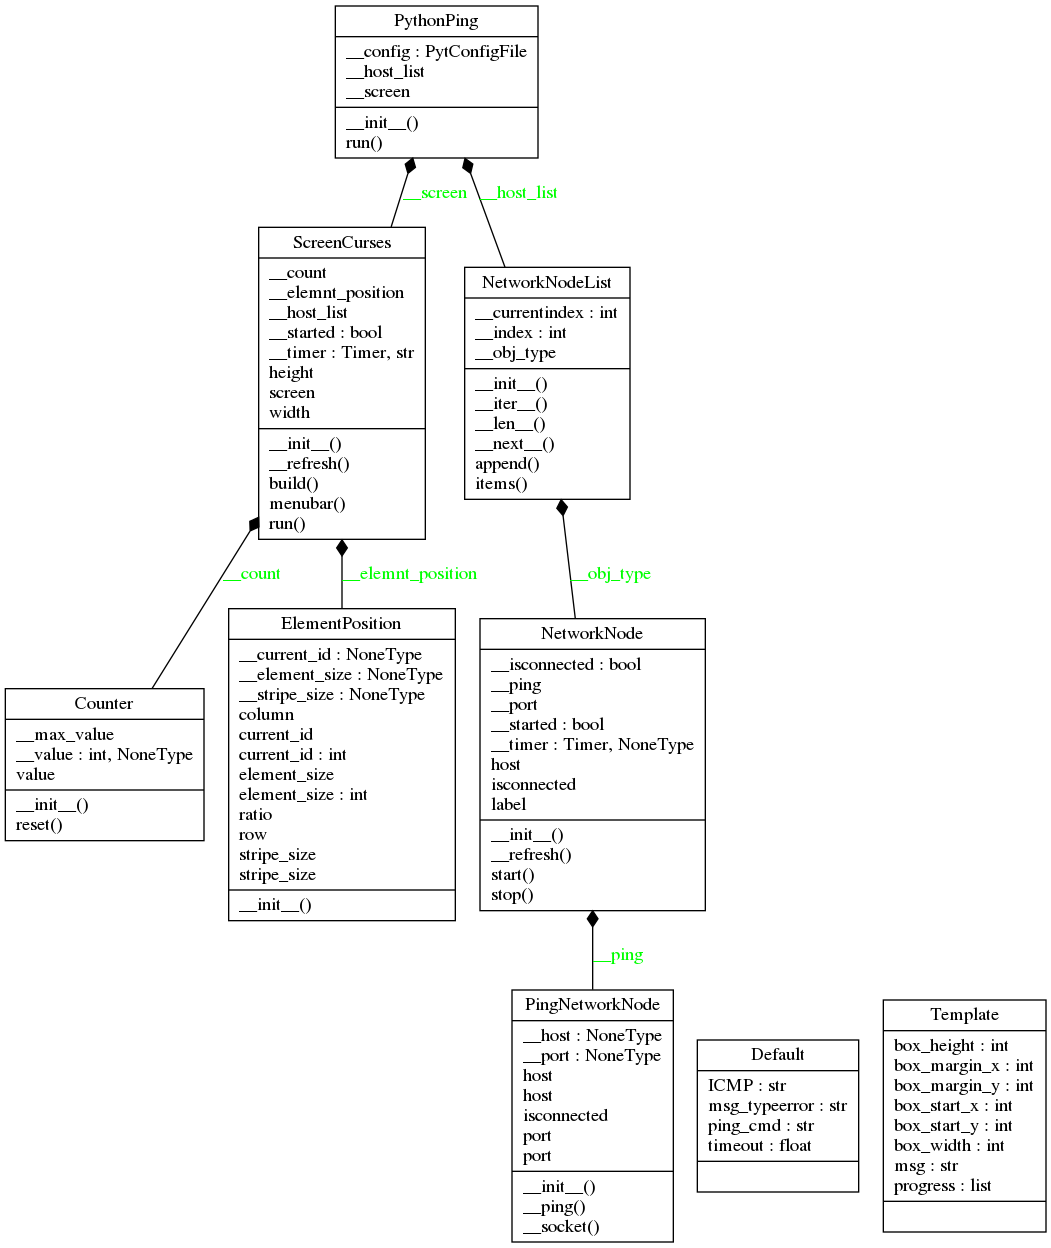
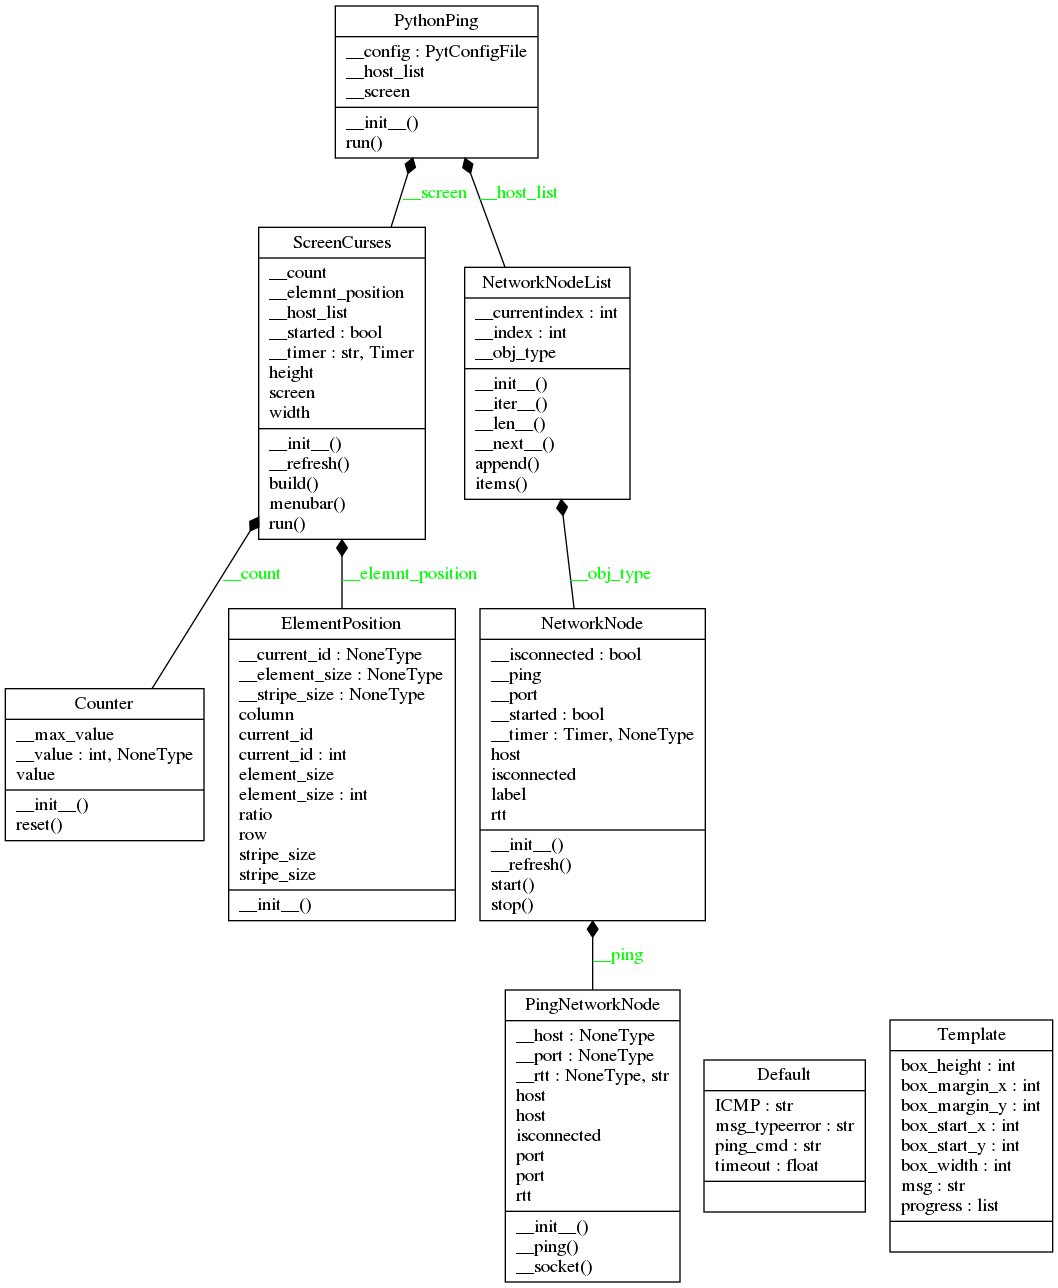
add RTT, update doc

Changed region(s): [[0.0, 0.0, 0.6698, 0.75], [0.4567, 0.7188, 1.0, 1.0]]

diff --git a/pytping/ping.py b/pytping/ping.py
@@ -9,6 +9,7 @@ print(myhost.isconnected)
 
 import subprocess
 import socket
+import time
 
 
 class Default:
@@ -44,6 +45,7 @@ class PingNetworkNode(object):
     def __init__(self, host, port):
         self.__host = None
         self.__port = None
+        self.__rtt = None
         self.host = host
         self.port = port
 
@@ -61,6 +63,15 @@ class PingNetworkNode(object):
             self.__host = host
         else:
             raise TypeError(Default.msg_typeerror)
+
+    @property
+    def rtt(self):
+        """
+        @Property:
+        """
+        if self.__rtt is 'UKN':
+            return self.__rtt
+        return self.__rtt
 
     @property
     def port(self):
@@ -91,18 +102,26 @@ class PingNetworkNode(object):
     def __socket(self):
         try:
             socket.setdefaulttimeout(Default.timeout)
+            start = time.time()
             socket.socket().connect((self.__host, self.__port))
+            self.__rtt = "{} ms".format(int(100000 *
+                                        (time.time() - start)) / 100)
+
         except Exception:
+            self.__rtt = "UKN"
             return False
         return True
 
     def __ping(self):
         try:
-            subprocess.run(Default.ping_cmd + self.__host,
-                           shell=True,
-                           check=True,
-                           stdout=subprocess.PIPE,
-                           stderr=subprocess.PIPE)
+            proc = subprocess.Popen(Default.ping_cmd + self.__host,
+                                    shell=True,
+                                    stdout=subprocess.PIPE,
+                                    stderr=subprocess.PIPE)
+            rtt = proc.stdout.read()
+            rtt = (((rtt.decode("utf-8").split("\n"))[1]).split("="))[3]
+            self.__rtt = rtt
             return True
         except Exception:
+            self.__rtt = "UKN"
             return False

diff --git a/pytping/screen.py b/pytping/screen.py
@@ -15,6 +15,7 @@ export NCURSES_NO_UTF8_ACS=1
 import curses
 from threading import Timer
 import time
+from pytping import __about__
 from pytping.position import ElementPosition
 from pytping.counter import Counter
 
@@ -51,13 +52,14 @@ class ScreenCurses(object):
     |                                                                 |
     |                                                                 |
     +-----------------------------------------------------------------+
-    |  Press ESC to EXIT (*)                                          |
+    |  XXXXX | XXXX (*)                                               |
     +-----------------------------------------------------------------+
 
     +-------------+
     | NetworkNode |    Network Node : label, IP, status
     +-------------+
 
+    XXX                Text
     (*)                Progress
 
     """
@@ -94,8 +96,11 @@ class ScreenCurses(object):
         box = self.screen.subwin(3, self.width, self.height - 3, 0)
         box.border()
         box.box()
-        box.addstr(1, 2, Template.msg + " " +
-                   Template.progress[self.__count.value])
+        txt = "{}({}) | {} {}".format(__about__.__name__,
+                                      __about__.__version__,
+                                      Template.msg,
+                                      Template.progress[self.__count.value])
+        box.addstr(1, 2, txt)
 
     def __refresh(self):
         if self.__started:
@@ -146,6 +151,8 @@ class ScreenCurses(object):
             box.box()
             box.addstr("Ping")
             box.addstr(1, 2, host.label)
+            box.addstr(1, Template.box_width - len("  " + host.rtt) - 2,
+                       "  " + host.rtt)
             box.addstr(2, 5, host.host)
             if host.isconnected:
                 box.addstr(2, Template.box_width - 4,

diff --git a/pytping/netnode.py b/pytping/netnode.py
@@ -39,6 +39,10 @@ class NetworkNode(object):
         """
         return self.__isconnected
 
+    @property
+    def rtt(self):
+        return str(self.__ping.rtt)
+
     def __refresh(self):
         if self.__started is not True:
             return

diff --git a/README.md b/README.md
@@ -158,6 +158,7 @@ PyYAML==3.12
 [ElementPosition.__init__(self)](#elementpositioninitself)<br />
 [NetworkNode()](#networknode)<br />
 [@Property: NetworkNode.isconnected](#property-networknodeisconnected)<br />
+[@Property: NetworkNode.rtt](#property-networknodertt)<br />
 [NetworkNode.__init__(self, label, host, port)](#networknodeinitself-label-host-port)<br />
 [NetworkNode.__refresh(self)](#networknode__refreshself)<br />
 [NetworkNode.start(self)](#networknodestartself)<br />
@@ -173,6 +174,7 @@ PyYAML==3.12
 [@Property: PingNetworkNode.host](#property-pingnetworknodehost)<br />
 [@Property: PingNetworkNode.isconnected](#property-pingnetworknodeisconnected)<br />
 [@Property: PingNetworkNode.port](#property-pingnetworknodeport)<br />
+[@Property: PingNetworkNode.rtt](#property-pingnetworknodertt)<br />
 [PingNetworkNode.__init__(self, host, port)](#pingnetworknodeinitself-host-port)<br />
 [PingNetworkNode.__ping(self)](#pingnetworknode__pingself)<br />
 [PingNetworkNode.__socket(self)](#pingnetworknode__socketself)<br />
@@ -390,6 +392,15 @@ def NetworkNode.isconnected(self):
 > <b>@Property:</b><br />
 > &nbsp;&nbsp;&nbsp;&nbsp;&nbsp;&nbsp;&nbsp;&nbsp;&nbsp;&nbsp;&nbsp;&nbsp;&nbsp;&nbsp;&nbsp;  bool: True if the node is connected. False otherwise.<br />
 > <br />
+##### @Property: NetworkNode.rtt
+```python
+@property
+def NetworkNode.rtt(self):
+
+```
+> <br />
+> @Property<br />
+> <br />
 ##### NetworkNode.__init__(self, label, host, port)
 ```python
 def NetworkNode.__init__(self, label, host, port):
@@ -543,9 +554,13 @@ Else, we use socket API.
     >>> a = PingNetworkNode("www.google.fr", 80)
     >>> print(a.isconnected)
     True
+    >>> print(a.rtt)
+    azked
     >>> a = PingNetworkNode("localhost", "ICMP")
     >>> print(a.isconnected)
     True
+    >>> print(a.rtt)
+    zfezelk
     >>> a = PingNetworkNode("10.10.9.1", "ICMP")
     >>> print(a.isconnected)
     False
@@ -584,6 +599,15 @@ def PingNetworkNode.port(self, port):
 > <br />
 > <b>@Property:</b><br />
 > &nbsp;&nbsp;&nbsp;&nbsp;&nbsp;&nbsp;&nbsp;&nbsp;&nbsp;&nbsp;&nbsp;&nbsp;&nbsp;&nbsp;&nbsp;  str/int: "ICMP" or port number<br />
+> <br />
+##### @Property: PingNetworkNode.rtt
+```python
+@property
+def PingNetworkNode.rtt(self):
+
+```
+> <br />
+> <b>@Property:</b><br />
 > <br />
 ##### PingNetworkNode.__init__(self, host, port)
 ```python
